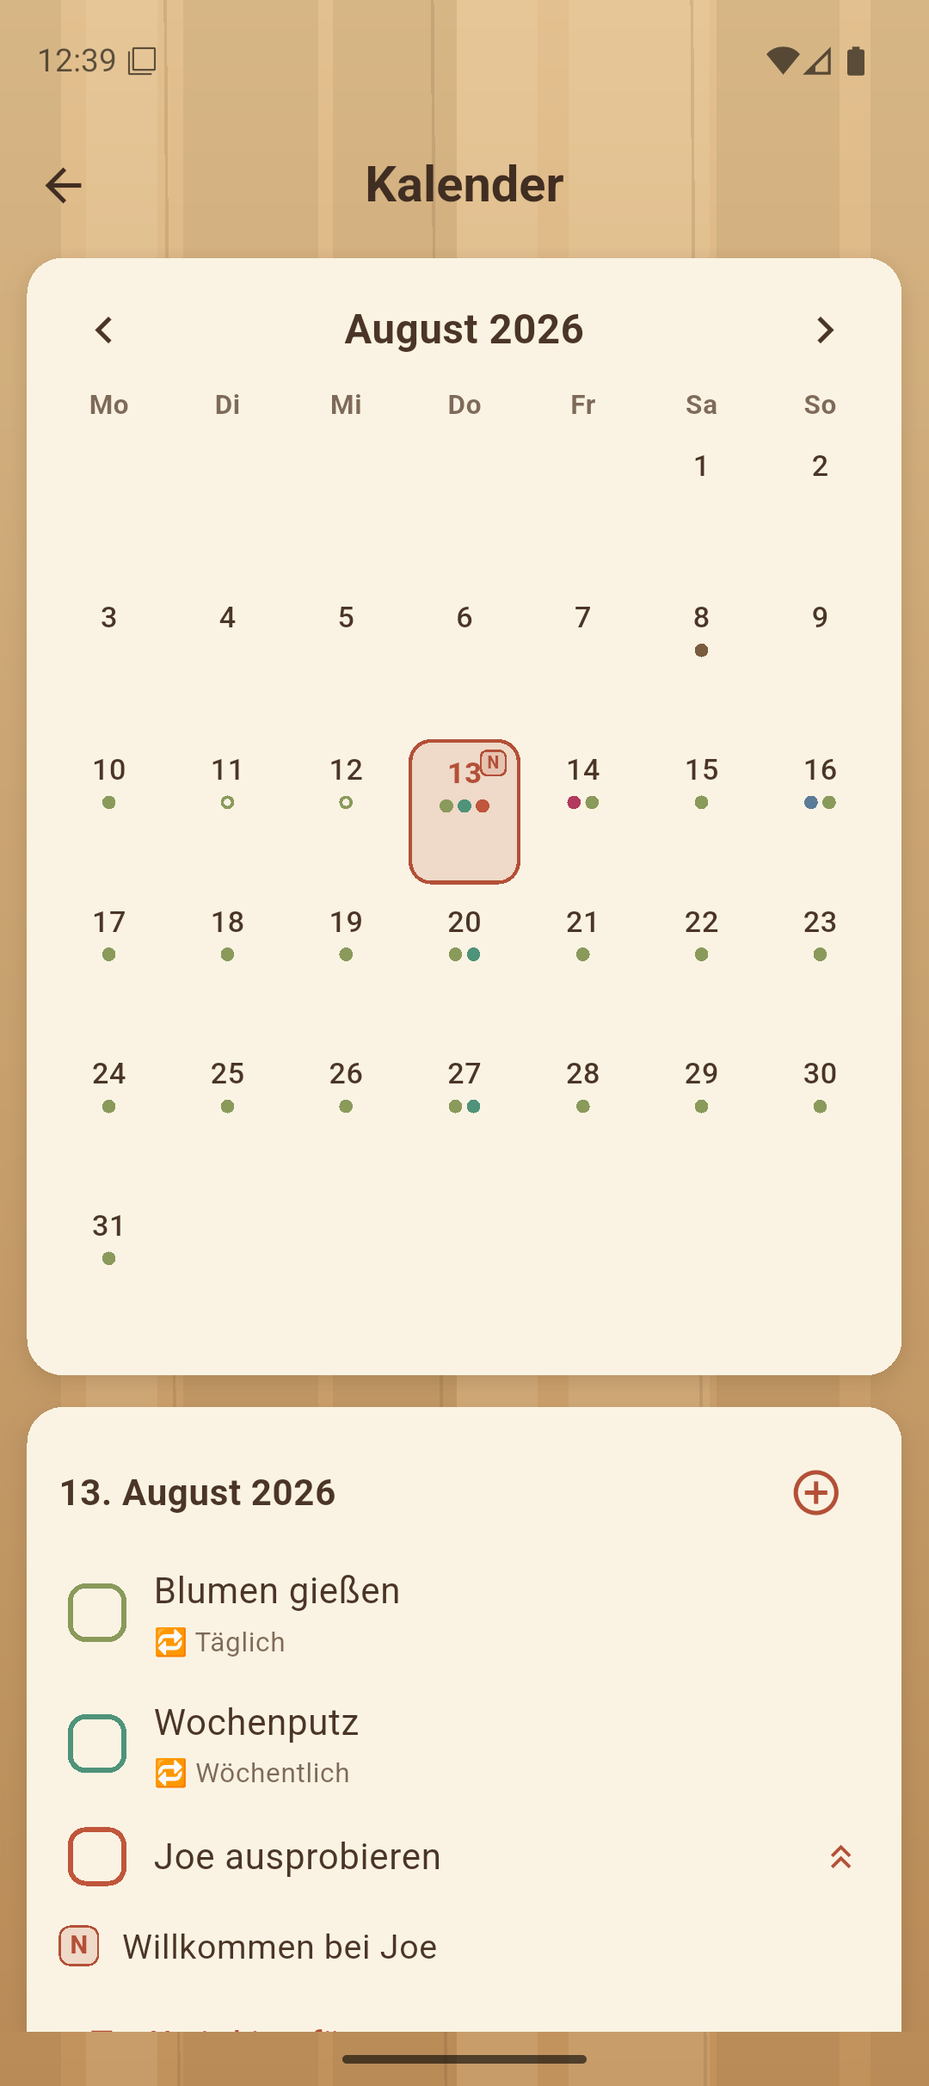
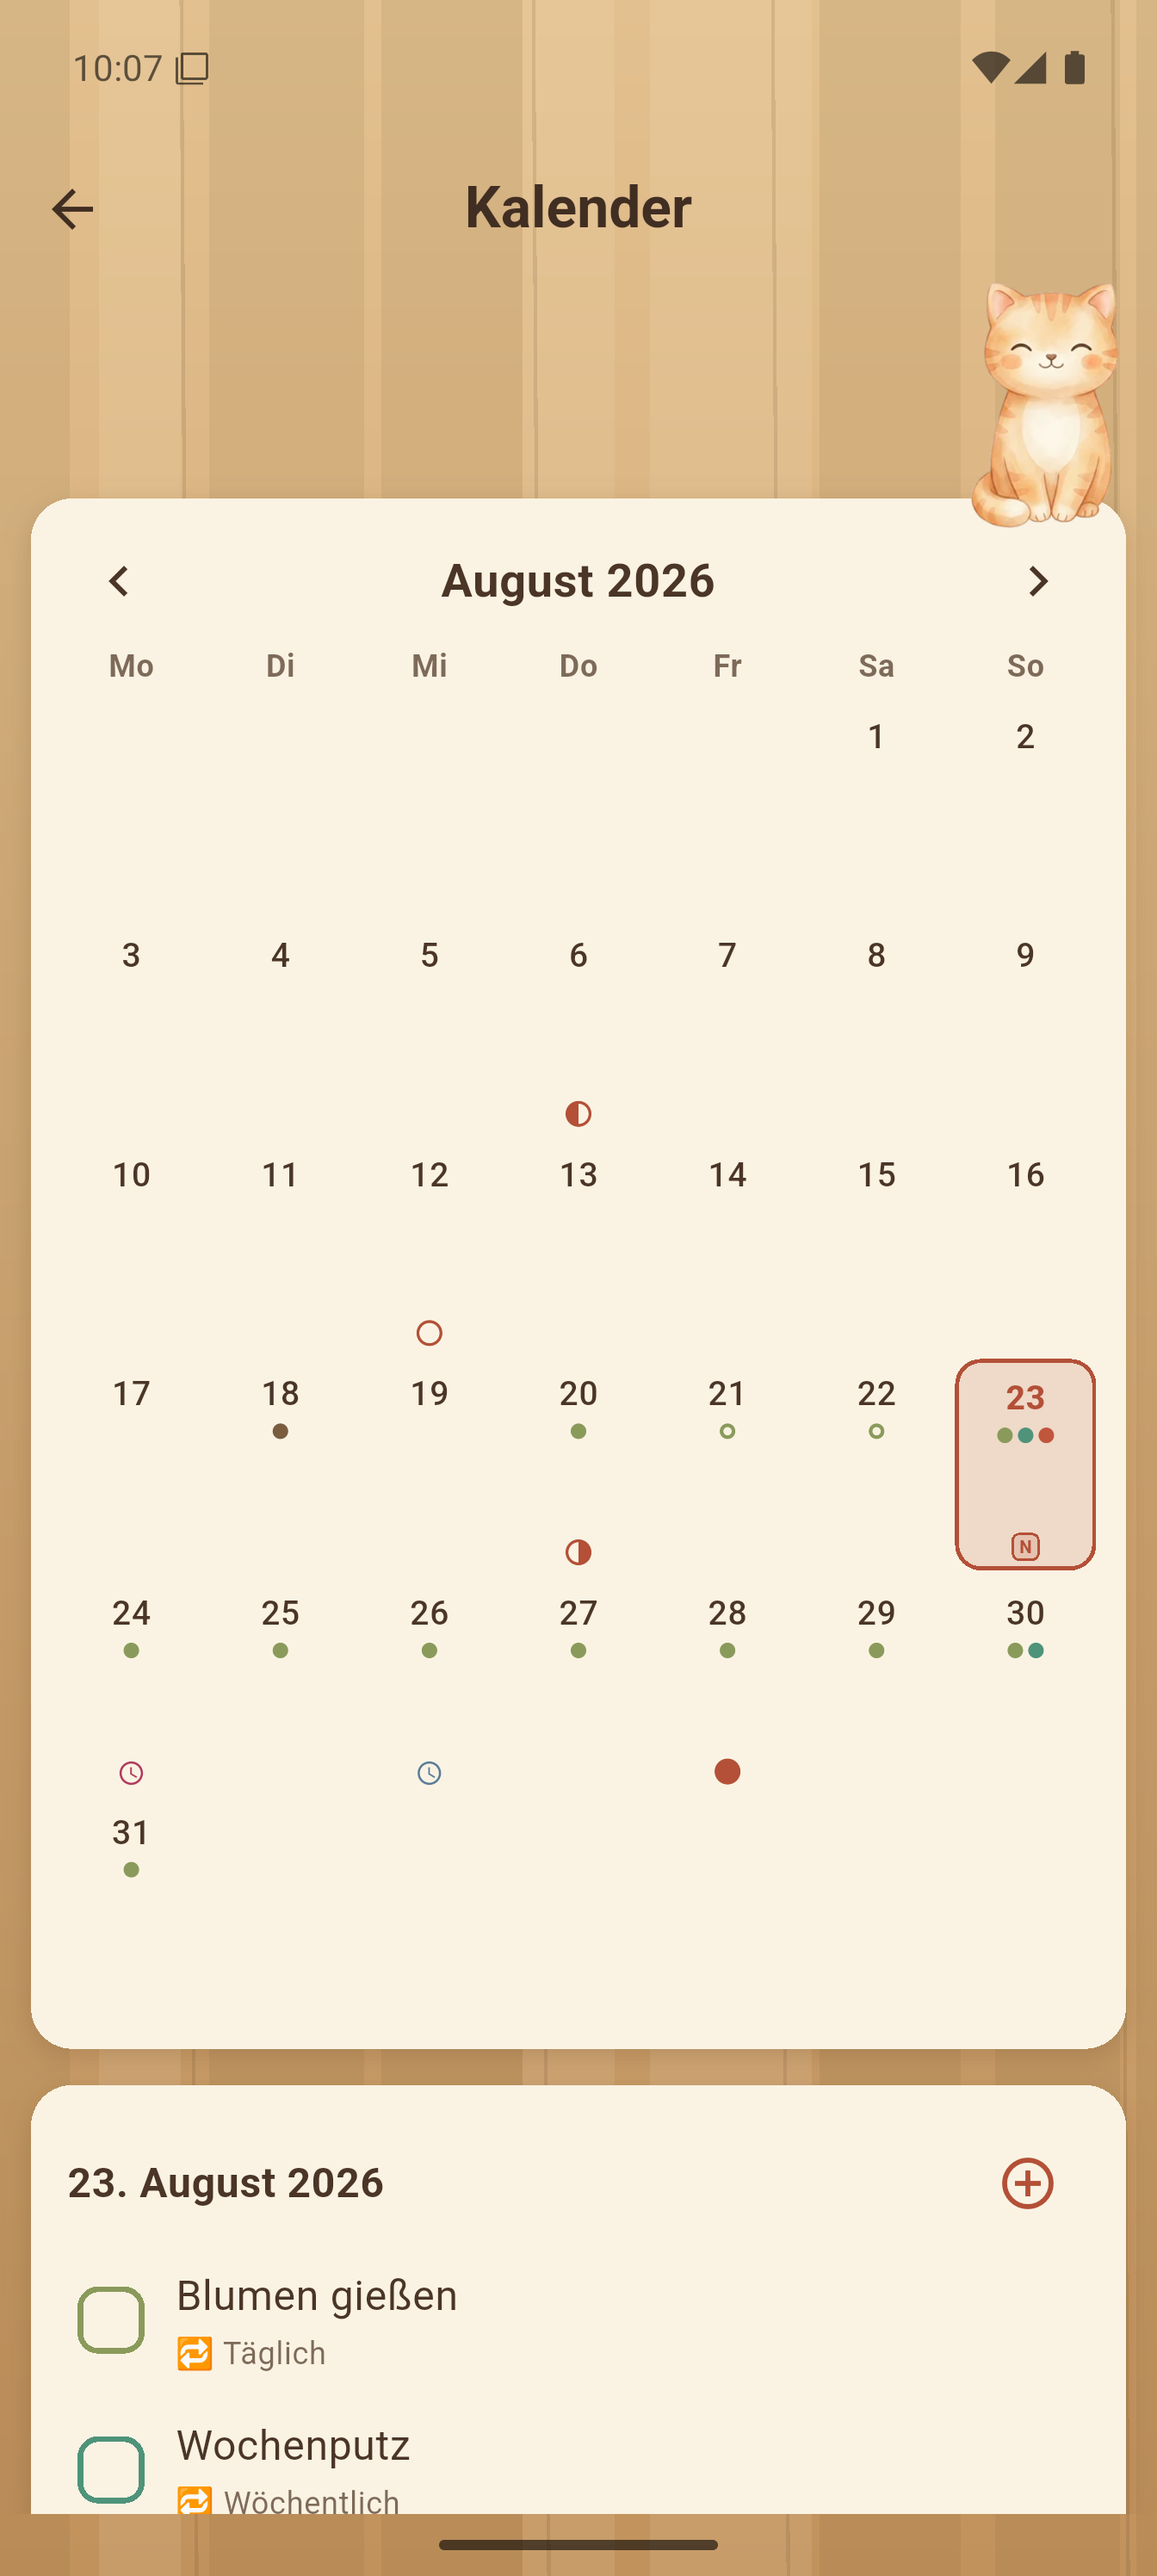
joe-todo: Termine als eigene Uhrenreihe im Monatsraster
Im Raster liessen sich Aufgaben und Termine nicht auseinanderhalten: beide
waren Farbpunkte in derselben Reihe. Damit sah man einem Tag nicht an, ob
man einen Termin hat - die Frage, wegen der man auf den Monat schaut.

Jeder Tag hat jetzt drei Reihen: Punkte fuer Aufgaben, darunter kleine Uhren
fuer Termine (in ihrer Farbe, Geraete-Termine eingeschlossen), darunter die
Zeichenzeile mit Stern, N und Mond. Fuer die dritte Reihe brauchen die
Kaestchen etwas mehr Hoehe.

Claude-Session: https://claude.ai/code/session_01GTTHh3KS7ZpoGwavN3S3nZ

diff --git a/app/lib/screens/calendar.dart b/app/lib/screens/calendar.dart
@@ -160,7 +160,10 @@ class _CalendarScreenState extends State<CalendarScreen> {
                     gridDelegate:
                         const SliverGridDelegateWithFixedCrossAxisCount(
                       crossAxisCount: 7,
-                      childAspectRatio: 0.78,
+                      // Drei Reihen wollen Platz: Punkte (Aufgaben), Uhren
+                      // (Termine) und die Zeichenzeile. Mit dem alten
+                      // Verhaeltnis 0.78 blieb fuer die dritte nichts uebrig.
+                      childAspectRatio: 0.68,
                     ),
                     itemCount: leadingBlanks + daysInMonth,
                     itemBuilder: (context, index) {
@@ -440,18 +443,20 @@ class _DayCell extends StatelessWidget {
     // nach und meldet sich, dann steht der Mond da.
     final moon = state.showMoon ? cachedMoonPhaseOnDay(day) : null;
 
-    final markers = <Widget>[];
-    for (final a in appointments) {
-      markers.add(_marker(a.color, done: false));
-    }
-    for (final task in tasks) {
-      markers.add(_marker(task.color, done: task.isCompletedOn(day)));
-    }
-    // Geraete-Termine als letzte Punkte, in der Farbe ihres Kalenders –
-    // die eigenen Eintraege behalten den Vortritt im Sechs-Punkte-Budget.
-    for (final e in deviceEvents) {
-      markers.add(_marker(e.color ?? theme.accent, done: false));
-    }
+    // Die Punktreihe gehoert den Aufgaben, die Uhrenreihe darunter den
+    // Terminen. Vorher standen beide als Punkte nebeneinander und waren
+    // nicht auseinanderzuhalten – ob an einem Tag ein Termin liegt, war das
+    // Erste, was man wissen will, und genau das ging unter.
+    final markers = <Widget>[
+      for (final task in tasks)
+        _marker(task.color, done: task.isCompletedOn(day)),
+    ];
+    // Eigene Termine zuerst, danach die des Geraets in der Farbe ihres
+    // Kalenders – wie im Tagesdetail.
+    final clocks = <Widget>[
+      for (final a in appointments) _clock(a.color),
+      for (final e in deviceEvents) _clock(e.color ?? theme.accent),
+    ];
 
     String countLabel(int count, String singular, String plural) =>
         '$count ${count == 1 ? singular : plural}';
@@ -500,6 +505,7 @@ class _DayCell extends StatelessWidget {
                 ),
               ),
               const SizedBox(height: 2),
+              // Oben die Aufgaben als Punkte …
               Expanded(
                 child: Wrap(
                   alignment: WrapAlignment.center,
@@ -508,10 +514,21 @@ class _DayCell extends StatelessWidget {
                   children: markers.take(6).toList(),
                 ),
               ),
-              // Die untere Badge-Zeile: Stern (Feiertag) links, "N" (Notiz) in
-              // der Mitte, Mond (Hauptphase) rechts. Keins davon bekommt einen
-              // Farbpunkt – sie haben keine eigene Farbe und sollen die
-              // Punktreihe der Aufgaben nicht verwaessern.
+              // … darunter die Termine als eigene Reihe von Uhren, in der
+              // Farbe des jeweiligen Termins.
+              if (clocks.isNotEmpty)
+                Padding(
+                  padding: const EdgeInsets.only(bottom: 1),
+                  child: Row(
+                    mainAxisSize: MainAxisSize.min,
+                    spacing: 1,
+                    children: clocks.take(4).toList(),
+                  ),
+                ),
+              // Ganz unten die Zeichenzeile: Stern (Feiertag), "N" (Notiz),
+              // Mond (Hauptphase). Keins davon bekommt einen Farbpunkt – sie
+              // haben keine eigene Farbe und sollen die Punktreihe der
+              // Aufgaben nicht verwaessern.
               if (holidays.isNotEmpty || hasNotes || moon != null)
                 Padding(
                   padding: const EdgeInsets.only(bottom: 2),
@@ -520,10 +537,10 @@ class _DayCell extends StatelessWidget {
                     spacing: 2,
                     children: [
                       if (holidays.isNotEmpty)
-                        Icon(Icons.star_rounded, size: 14, color: theme.accent),
-                      if (hasNotes) _NoteBadge(theme: theme, size: 12),
+                        Icon(Icons.star_rounded, size: 13, color: theme.accent),
+                      if (hasNotes) _NoteBadge(theme: theme, size: 11),
                       if (moon != null)
-                        MoonIcon(kind: moon, size: 11, color: theme.accent),
+                        MoonIcon(kind: moon, size: 10, color: theme.accent),
                     ],
                   ),
                 ),
@@ -546,6 +563,10 @@ class _DayCell extends StatelessWidget {
       ),
     );
   }
+
+  /// Ein Termin in der Uhrenreihe – in seiner Farbe, damit sich die Termine
+  /// eines Tages auch dort auseinanderhalten lassen.
+  Widget _clock(Color color) => Icon(Icons.schedule, size: 11, color: color);
 }
 
 /// Ein Termin aus einem Geraete-Kalender in der Tageskarte: nur Anzeige,

diff --git a/app/test/calendar_test.dart b/app/test/calendar_test.dart
@@ -6,14 +6,19 @@ import 'package:flutter_test/flutter_test.dart';
 import 'package:joe_todo/models.dart';
 import 'package:joe_todo/screens/calendar.dart';
 
-Future<void> pumpCalendar(WidgetTester tester, DateTime initialDay) async {
+Future<void> pumpCalendar(
+  WidgetTester tester,
+  DateTime initialDay, {
+  List<Task> tasks = const [],
+  List<Appointment> appointments = const [],
+}) async {
   tester.view.devicePixelRatio = 1;
   tester.view.physicalSize = const Size(560, 1000);
   addTearDown(tester.view.reset);
 
   final state = AppState()
-    ..tasks = []
-    ..appointments = []
+    ..tasks = [...tasks]
+    ..appointments = [...appointments]
     ..notes = []
     ..showHolidays = false
     ..showMoon = false
@@ -51,5 +56,98 @@ void main() {
     expect(data.flagsCollection.isSelected, ui.Tristate.isTrue);
     expect(data.flagsCollection.isButton, isTrue);
     handle.dispose();
+  });
+
+  testWidgets('Termine stehen als eigene Uhrenreihe unter den Aufgaben',
+      (tester) async {
+    // Vorher waren Termine und Aufgaben dieselben Punkte und nicht
+    // auseinanderzuhalten.
+    await pumpCalendar(
+      tester,
+      DateTime(2026, 1, 31),
+      tasks: [Task(id: 't', title: 'Aufgabe', startDate: DateTime(2026, 1, 22))],
+      appointments: [
+        Appointment(id: 'a', title: 'Zahnarzt', when: DateTime(2026, 1, 22, 9)),
+        Appointment(id: 'b', title: 'Kaffee', when: DateTime(2026, 1, 22, 15)),
+      ],
+    );
+
+    final grid = find.byType(GridView);
+    // Zwei Termine, zwei Uhren – und nur an ihrem Tag.
+    expect(
+      find.descendant(of: grid, matching: find.byIcon(Icons.schedule)),
+      findsNWidgets(2),
+    );
+
+    final cell = find
+        .ancestor(
+          of: find.descendant(of: grid, matching: find.text('22')),
+          matching: find.byType(Column),
+        )
+        .first;
+    final clock = tester.getRect(
+      find.descendant(of: cell, matching: find.byIcon(Icons.schedule)).first,
+    );
+    final dayNumber = tester.getRect(
+      find.descendant(of: cell, matching: find.text('22')),
+    );
+    // Die Uhrenreihe liegt zwischen der Punktreihe (direkt unter der Zahl)
+    // und dem unteren Rand der Zelle.
+    expect(clock.top, greaterThan(dayNumber.bottom));
+  });
+
+  testWidgets('die Uhr steht zwischen Punktreihe und Zeichenzeile',
+      (tester) async {
+    await pumpCalendar(
+      tester,
+      DateTime(2026, 1, 31),
+      appointments: [
+        Appointment(id: 'a', title: 'Zahnarzt', when: DateTime(2026, 1, 22, 9)),
+      ],
+    );
+    // Notiz an demselben Tag: dann steht die Zeichenzeile mit dem "N"
+    // darunter.
+    final state = AppScope.of(
+      tester.element(find.byType(CalendarScreen)),
+    );
+    state.addNote(Note(
+      id: 'n',
+      title: 'Notiz',
+      body: '',
+      date: DateTime(2026, 1, 22),
+      updatedAt: DateTime.now(),
+    ));
+    await tester.pumpAndSettle();
+
+    final grid = find.byType(GridView);
+    final cell = find
+        .ancestor(
+          of: find.descendant(of: grid, matching: find.text('22')),
+          matching: find.byType(Column),
+        )
+        .first;
+    final clock = tester.getRect(
+      find.descendant(of: cell, matching: find.byIcon(Icons.schedule)).first,
+    );
+    final noteBadge = tester.getRect(
+      find.descendant(of: cell, matching: find.text('N')).first,
+    );
+    expect(clock.bottom, lessThanOrEqualTo(noteBadge.top + 1));
+  });
+
+  testWidgets('ohne Termin bleibt die Uhr weg', (tester) async {
+    await pumpCalendar(
+      tester,
+      DateTime(2026, 1, 31),
+      tasks: [Task(id: 't', title: 'Aufgabe', startDate: DateTime(2026, 1, 20))],
+    );
+
+    expect(
+      find.descendant(
+        of: find.byType(GridView),
+        matching: find.byIcon(Icons.schedule),
+      ),
+      findsNothing,
+    );
   });
 }
